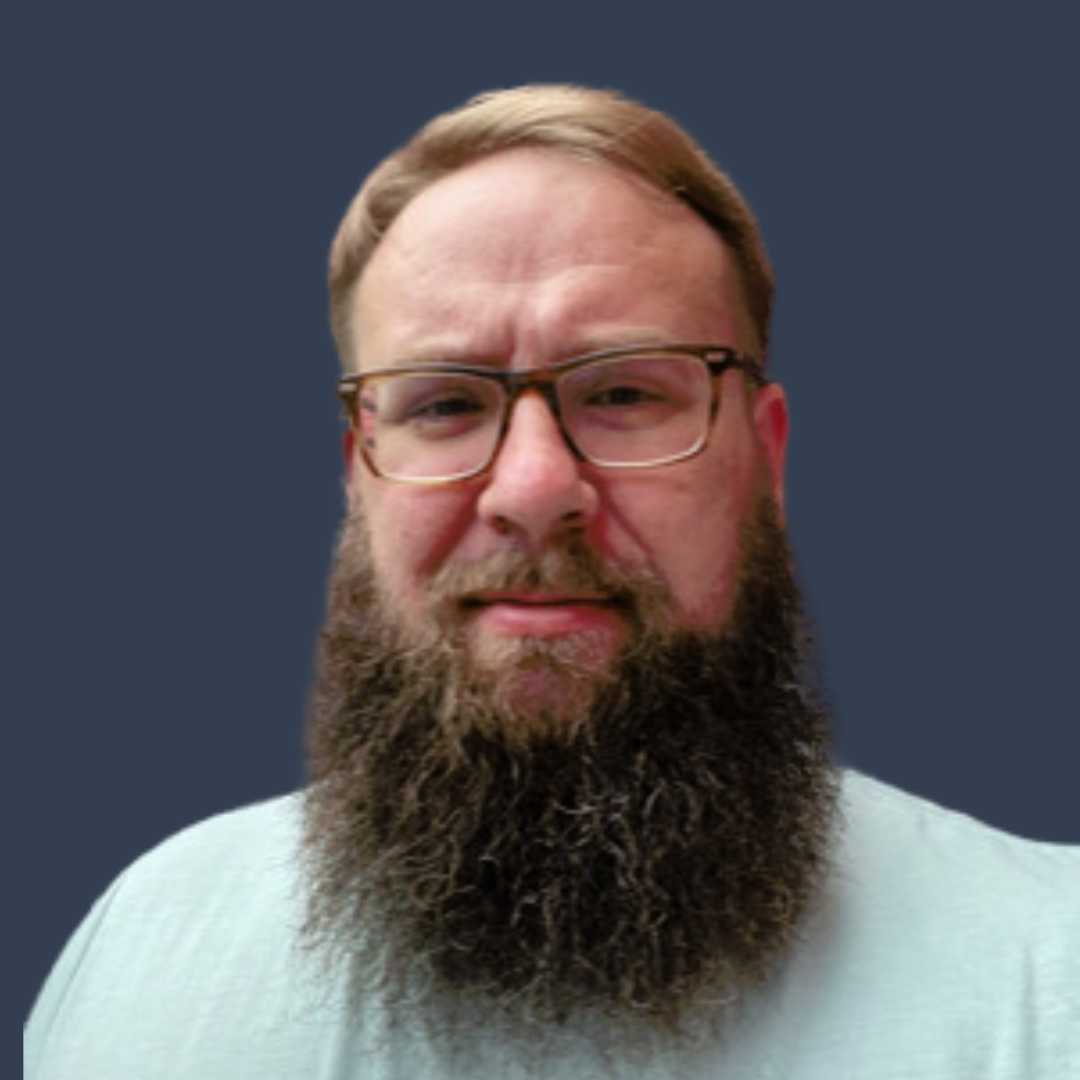
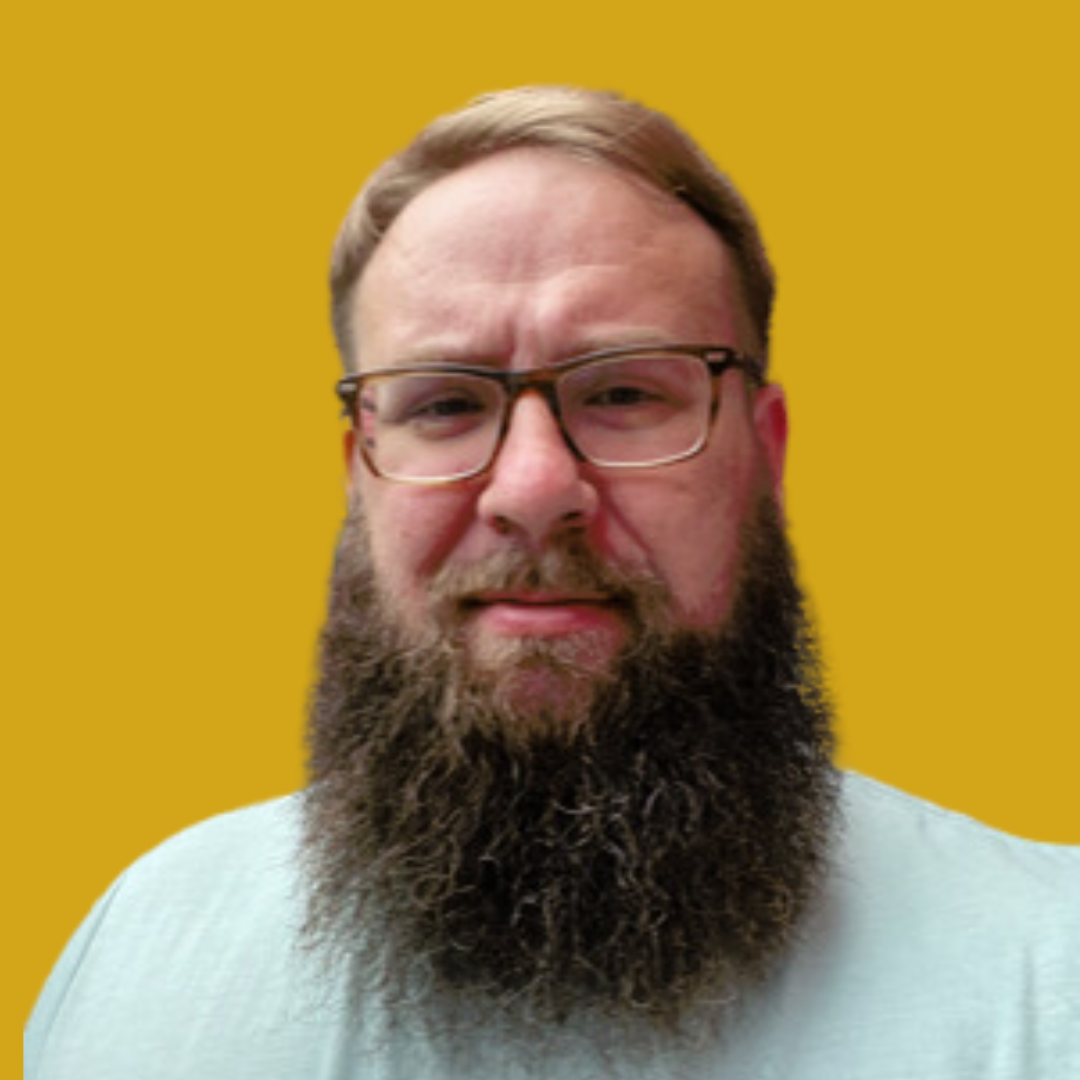
update color palette

diff --git a/css/style.css b/css/style.css
@@ -1,9 +1,12 @@
 body {
     font-family: Verdana;
-    color: black;
+    color: #222E50;
+    margin: 0;
+    padding: 0;
 }
 
 header {
+    background-color: #222E50 ;
     width: 100%;
     height: 100px;
     display: flex;
@@ -12,6 +15,7 @@ header {
     flex-direction: row;
     font-size: 24px;
     top: 0;
+    padding-top: 5px;
 }
 
 #logo {
@@ -37,14 +41,14 @@ nav > ul {
 }
 
 nav > ul > li {
-    color: #222E50;
+    color: #D3A518;
     margin: 0 0.2rem;
     padding: 0.2rem;
     display: block;
 }
 
 nav > ul > li:hover {
-    color: #007991;
+    color: #FFEECA;
     cursor: pointer;
 }
 
@@ -55,30 +59,27 @@ li > a {
 
 button {
     display: inline-block;
-    background-color: white;
     text-align: center;
     text-decoration: none;
     padding: 10px 20px;
-    border: 2px solid #222E50;
-    color: #222E50;
+    background-color: #222E50;
+    border: 2px solid #D3A518;
+    color: #D3A518;
     border-radius: 50px;
     font-size: 24px;
     cursor: pointer;
 }
 
 button:hover {
-    background-color:#007991;
-    color: white;
+    background-color:#D3A518;
+    color: #222E50;
 }
 
 .intro {
     padding-top: 80px;
-    padding-bottom: 60px;
     display: flex;
     justify-content: center;
     align-items: center;
-    margin: 0 auto 10px auto;
-    width: 90%;
 }
 
 .intro > div {
@@ -106,10 +107,8 @@ h1 {
 }
 
 .about {
-    padding-top: 75px;
-    padding-bottom: 75px;
-    background-color: #222E50;
-    color: white;
+    padding-top: 60px;
+    padding-bottom: 60px;
 }
 
 h2 {
@@ -149,25 +148,25 @@ li {
 }
 
 .tool-1 {
-    background-color: #007991;
+    background-color: #222E50;
     color: white;
     border-radius: 10%;
 }
 
 .tool-2 {
-    background-color: #439A86;
-    color: black;
+    background-color: #222E50;
+    color: white;
     border-radius: 10%;
 }
 
 .tool-3 {
-    background-color: #E9D985;
-    color: black;
+    background-color: #222E50;
+    color: white;
     border-radius: 10%;
 }
 
 .alt-color1 {
-    color:#007991;
+    color:#867555;
 }
 
 footer {
@@ -176,9 +175,9 @@ footer {
     align-items: center;
     text-align: center;
     padding: 20px;
-    background-color: #E9D985;
+    background-color: #222E50;
     font-family: Verdana;
-    color: black;
+    color: #D3A518;
     font-size: 18px;
 }
 
@@ -198,11 +197,11 @@ footer {
 
 .social-links a {
     margin: 0 5px;
-    color: #222E50;
+    color: #D3A518;
     text-decoration: none;
     font-size: 24px;
 }
 
 .social-links a:hover {
-    color: #439A86;
+    color: #D3A518;
 }

diff --git a/index.html b/index.html
@@ -9,7 +9,7 @@
     </head>
     <body>
         <header>
-            <img id="logo" src="./images/Adam Nestor.png">
+            <img id="logo" src="./images/logo-footer.png">
             <nav> <!--Navigation at top of the screen-->
                 <ul class="link">
                     <li><a href="" accesskey="s">My Work</a></li>
@@ -84,7 +84,7 @@
             </section>
         </main>
         <footer>
-            <img id="logo-footer" src="./images/Adam Nestor.png">
+            <img id="logo-footer" src="./images/logo-footer.png">
             <p class="footer-message">Living, learning, & leveling up one day at a time.</p>
             <div class="social-links">
                 <a href="https://www.github.com/adamnestor">
